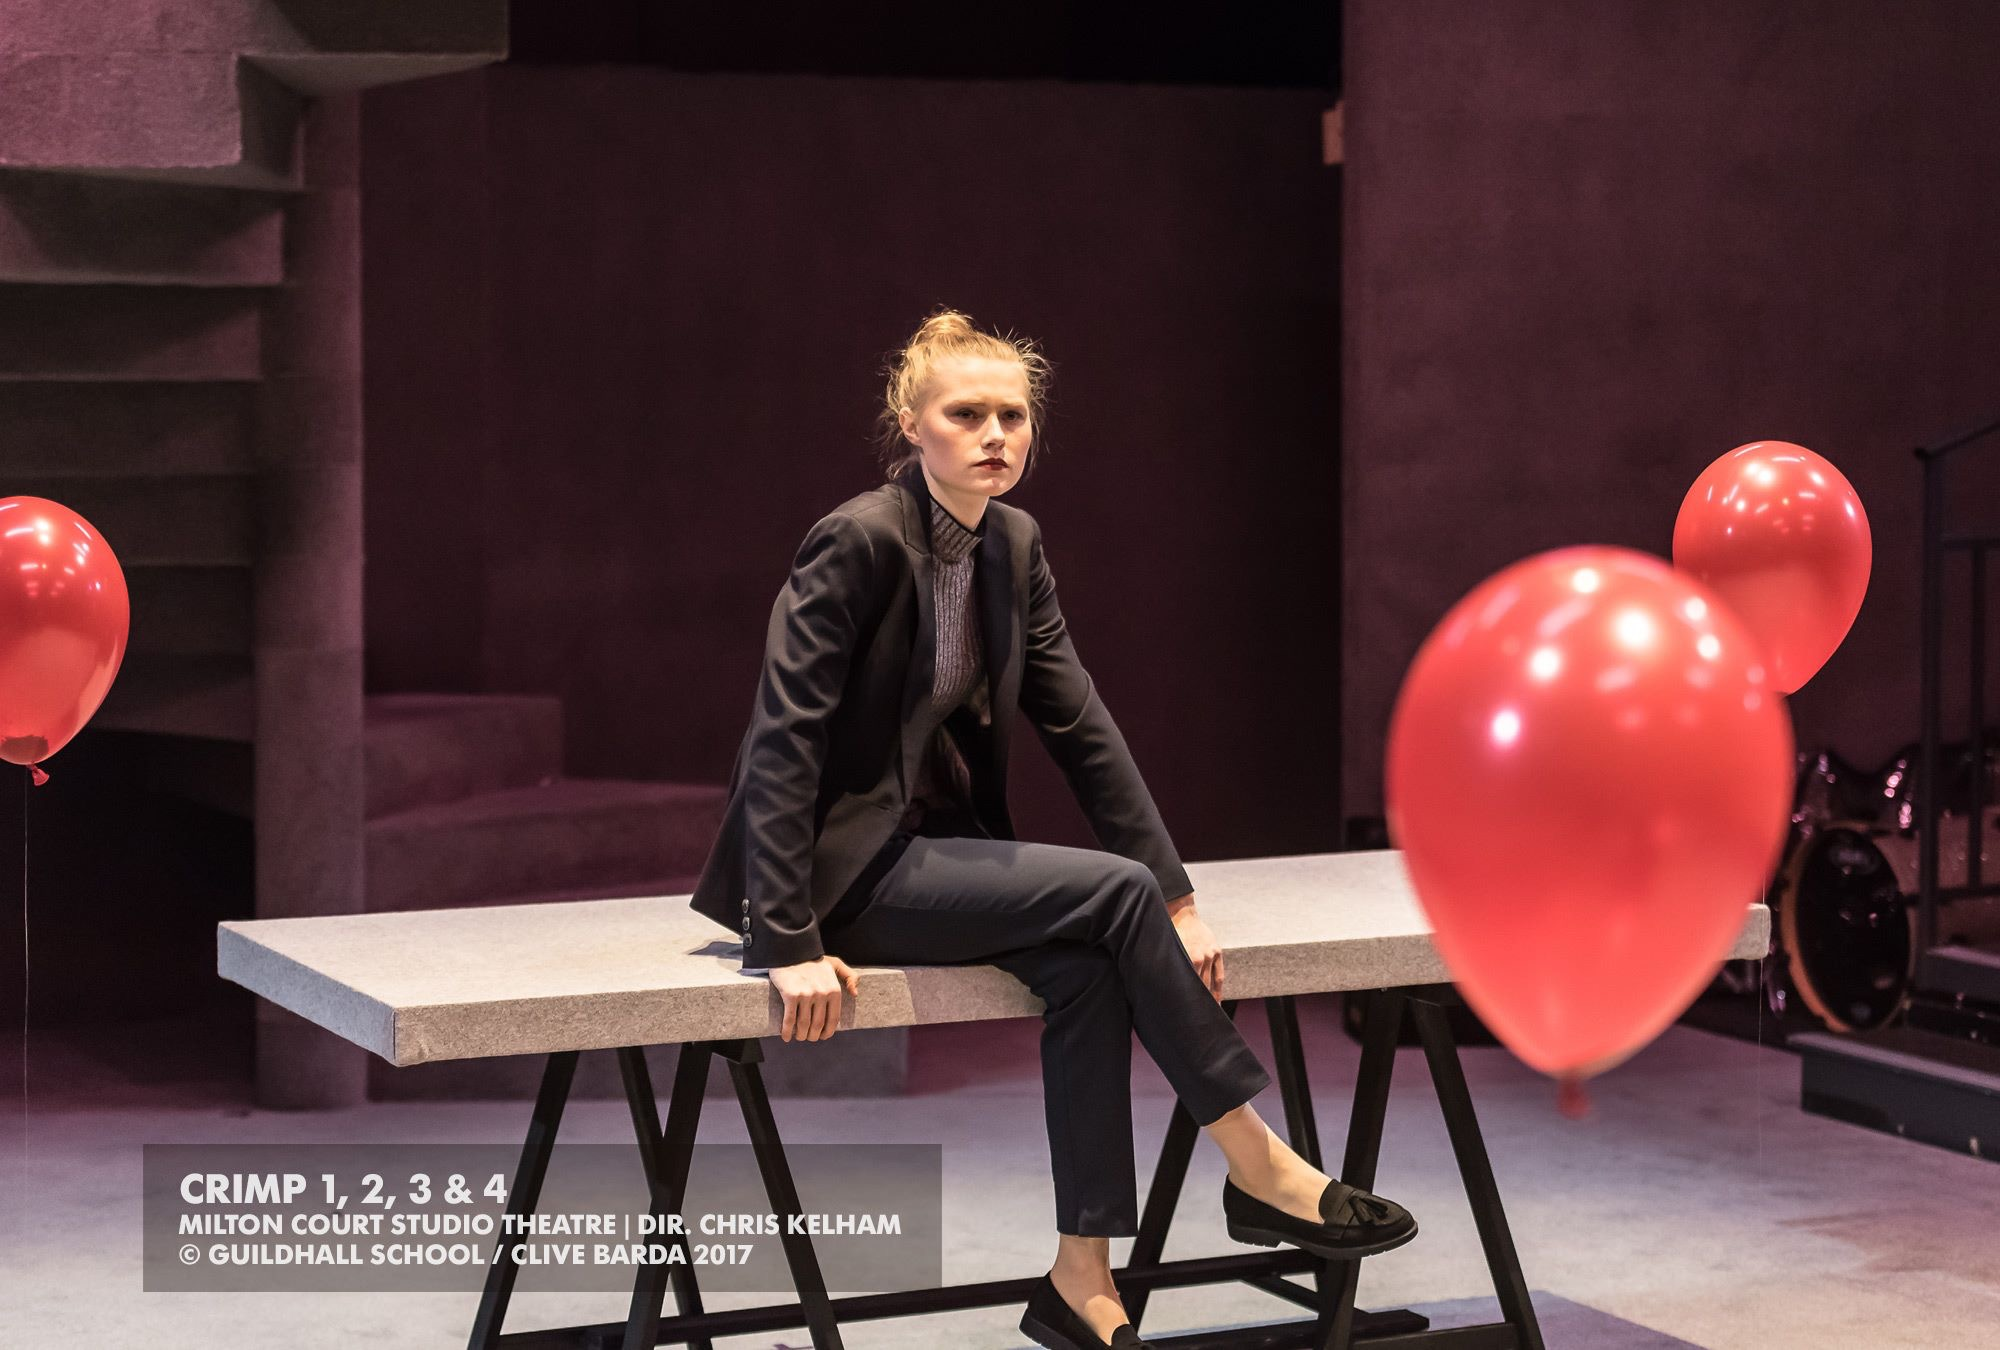
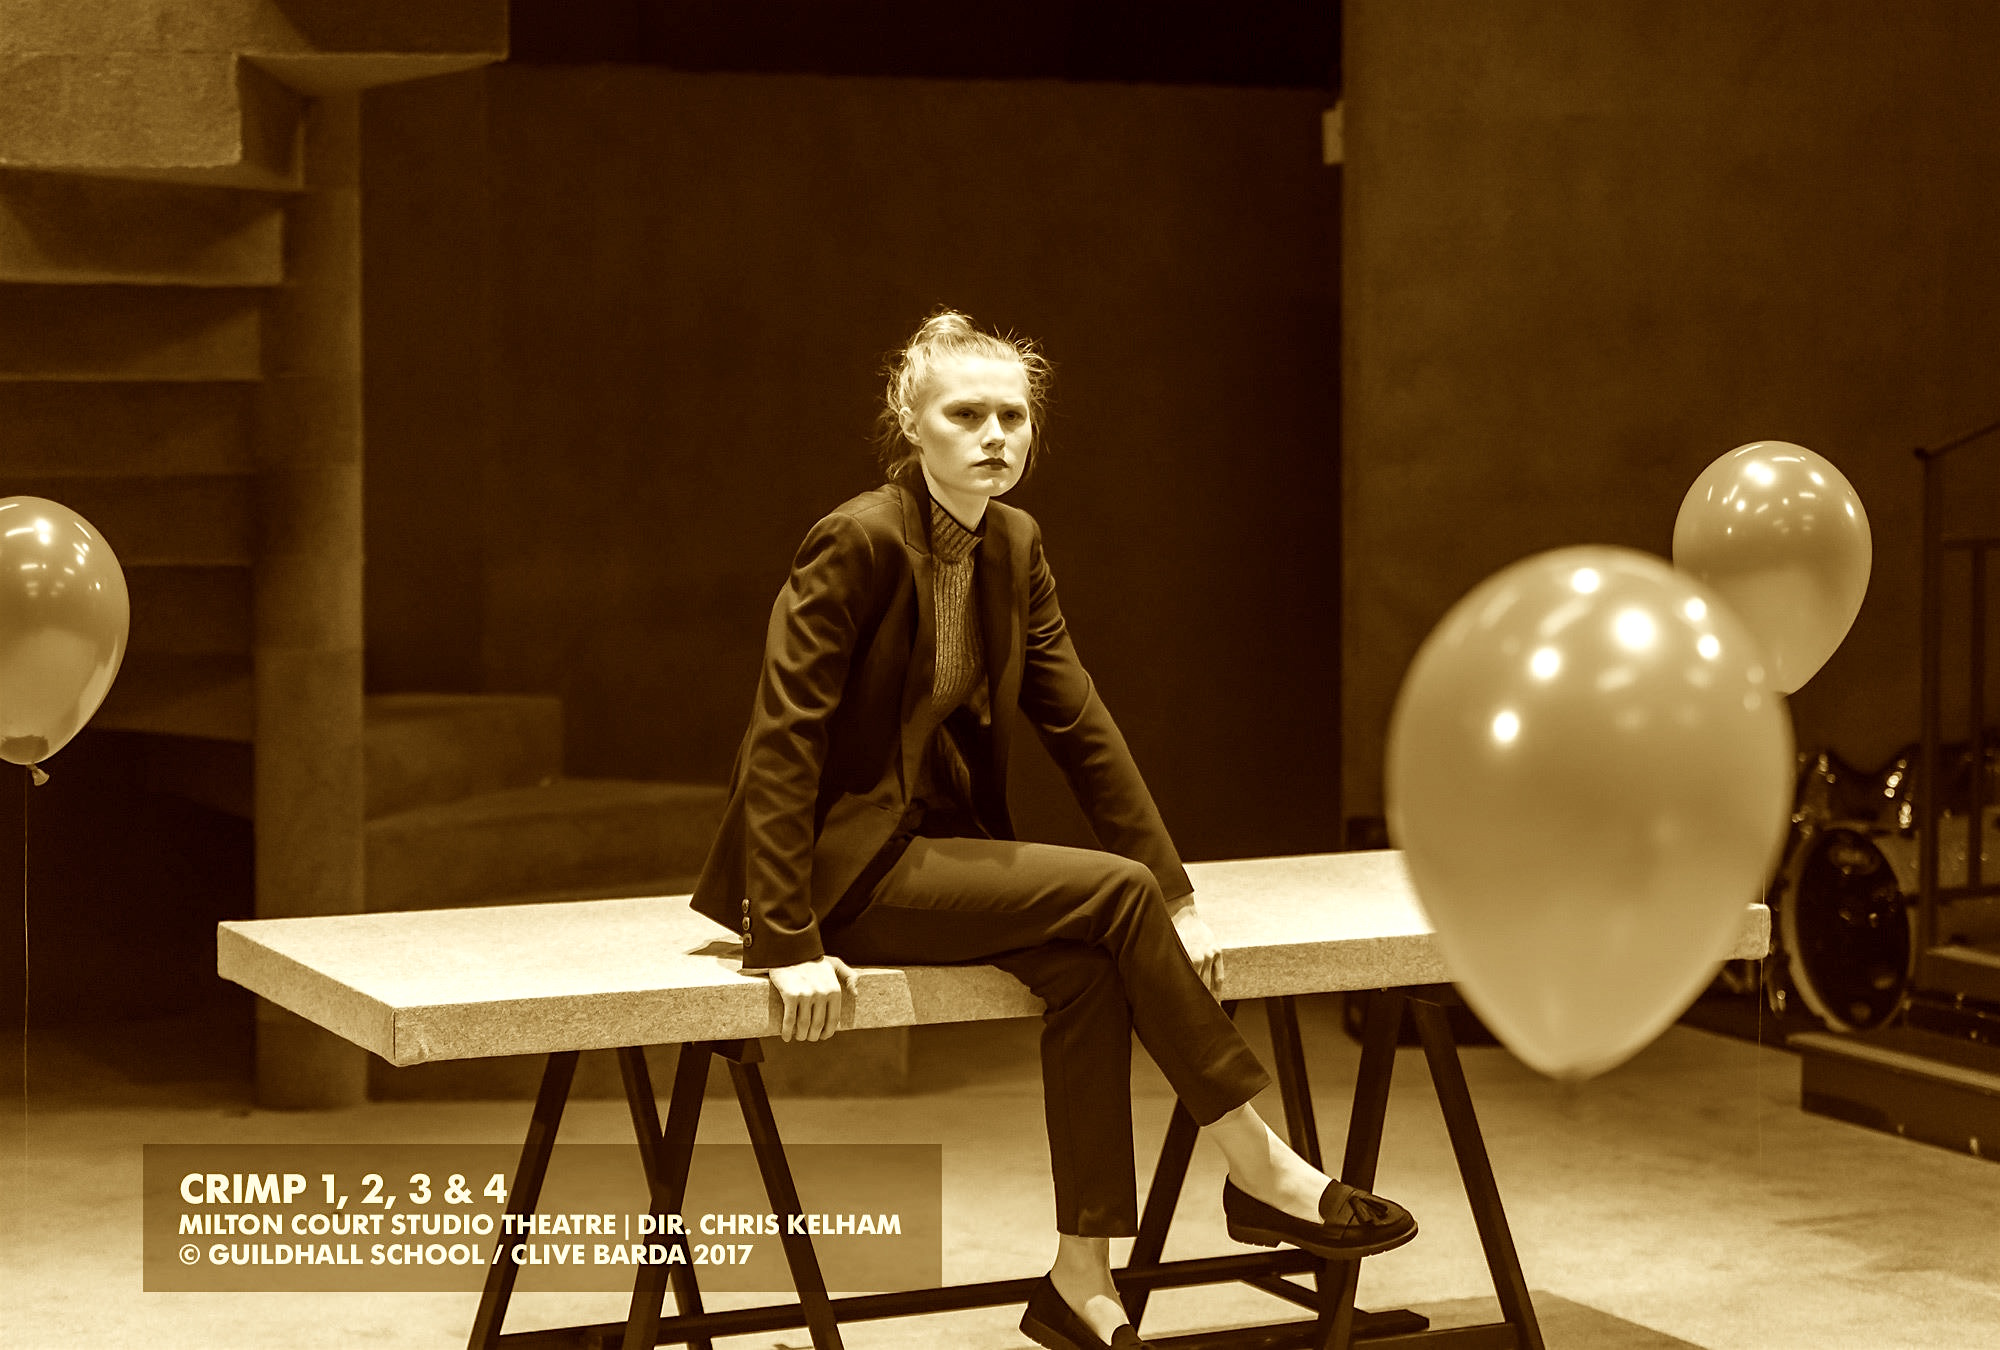
Home page edits and nav

diff --git a/index.html b/index.html
@@ -4,31 +4,32 @@
     <meta charset="utf-8">
     <meta name="viewport" content="width=device-width, initial-scale=1">
     <title>Tegen Short</title>
-    <link rel="stylesheet" href="style.css"/>
+    <link rel="stylesheet" type="text/css" href="style.css">
+    <link href="https://fonts.googleapis.com/css?family=Rozha+One" rel="stylesheet">
   </head>
   <body>
 
-    <nav class="site-navigation page-navigation">
-      <ul class="menu">
-        <li><a href="#top">Top</a></li>
-        <li><a href="#Home">Home</a></li>
-        <li><a href="#Gallery">Gallery</a></li>
-        <li><a href="#About me">About me</a><li>
-        <li><a href="#Contact">Contact</a></li>
-      </ul>
+    <nav>
+        <a href="#Home">Home</a>
+        <a href="#About me">About me</a>
+        <img src="images/tegenshortlogobandw.png" class="logo">
+        <a href="#Gallery">Gallery</a>
+        <a href="#Contact">Contact</a>
     </nav>
 
-    <div id="top"></div>
+    <header>
+      <img src="images/crimpsplaybandw.jpeg" id="homepageimage">
+    </header>
 
     <div id="Home">
 
     </div>
 
-    <div id="Gallery">
+    <div id="About me">
 
     </div>
 
-    <div id="About me">
+    <div id="Gallery">
 
     </div>
 
@@ -38,4 +39,5 @@
 
 
   </body>
+  
 </html>

diff --git a/style.css b/style.css
@@ -1,16 +1,55 @@
-nav.page-naviation {
-  width: 80px;
+html {
   background-color: white;
-  position: fixed;
-  top: 10%;
-  left: 0;
+  border: 15px solid black;
+  margin: 15px;
+  }
+
+/**Body styling **/
+body {
+  margin: 0;
+  padding: 0;
+  font-size: 1.0em;
+  line-height: 1.0em;
+  color: black;
+  font-family: 'Rozha One', serif;
 }
 
-nav.page-naviation li {
-  width: 100%
+/** Navigation styling **/
+nav {
+  background-color: white;
+  text-align: center;
+  /**border-bottom: 1px solid black;
+  border-width: 1px 0; **/
+  margin: 0;
+  padding: 0;
 }
 
-nav.page-naviation a {
-  padding: 0.6em 10%;
-  widht: 80%;
+nav > a {
+  display: inline-block;
+  vertical-align: middle;
+  margin-right: 50px;
+  text-decoration: none;
+  color: black;
+  font-size: 0.8em;
+}
+
+nav a:hover {
+  color: #E9D2A2;
+}
+
+.logo {
+  display: inline-block;
+  vertical-align: middle;
+  height: 60px;
+  padding: 10px;
+}
+
+/** Home page styling **/
+
+#homepageimage {
+  display: block;
+  margin: auto;
+  width: 70%;
+  padding-top: 20px;
+  padding-bottom: 20px;
 }
